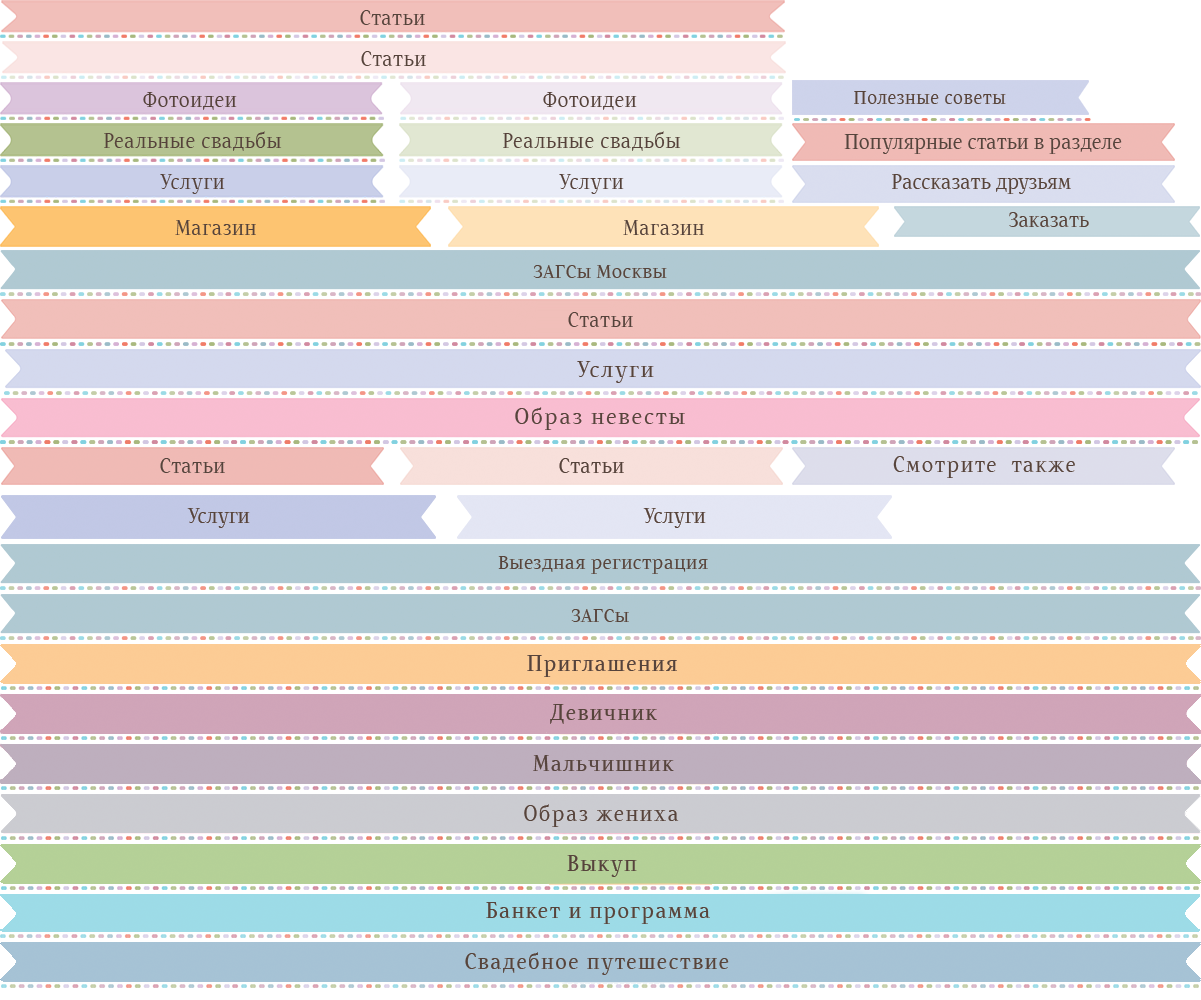
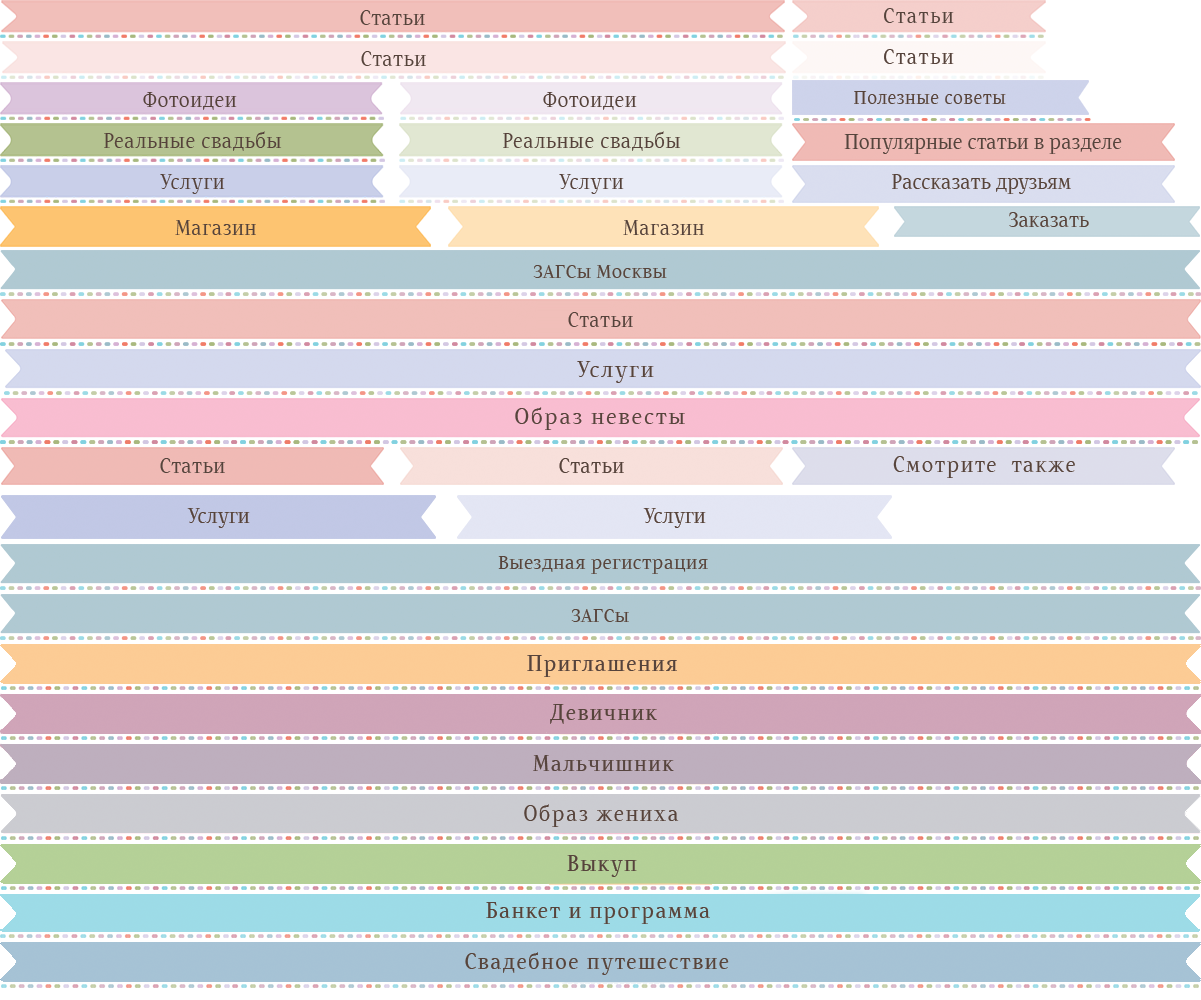
+ guests-service.html page

Changed region(s): [[0.647, 0.0, 0.8626, 0.062]]

diff --git a/guests-service.html b/guests-service.html
@@ -110,38 +110,97 @@
                                     <a href="#"><img src="images/img69.jpg" alt="" width="251" height="186"/></a>
                                     <a class="btn-gift" href="#">Получить подарок!</a>
                                 </div>
-                            </div>
-
-                            <div class="center-column">
-                                <h1>Запуск голубей</h1>
-                                <div class="img">
-                                    <img src="images/img70.jpg" alt="" width="568" height="338"/>
+                                <div class="block-menu">
+                                    <h3 class="title title-articles-mini"><span>Статьи</span></h3>
+                                    <ul>
+                                        <li><a href="#">Платья подружек невесты</a></li>
+                                        <li><a href="#">Как правильно наносить макияж</a></li>
+                                        <li><a href="#">Интересные идеи для фотосессии</a></li>
+                                        <li><a href="#">Платья подружек невесты</a></li>
+                                        <li><a href="#">Как правильно наносить макияж</a></li>
+                                        <li><a href="#">Интересные идеи для фотосессии</a></li>
+                                        <li><a href="#">Платья подружек невесты</a></li>
+                                        <li><a href="#">Как правильно наносить макияж</a></li>
+                                        <li><a href="#">Интересные идеи для фотосессии</a></li>
+                                    </ul>
                                 </div>
-                                <div class="price-block">
-                                    <strong class="caption">Цена</strong>
-                                    <div class="entry">
-                                        <p>Самовывоз <span class="price">2100 руб.</span></p>
-                                        <p>Доставка по Москве <span class="price">2300 руб.</span></p>
-                                        <p><em>*Пара голубей в коробке/клетке</em></p>
+                            </div>
+                            <div class="center-column">
+                                <h1>Чем развлечь и удивить гостей?</h1>
+                                <div class="services-section">
+                                    <div class="service-box">
+                                        <div class="photo">
+                                            <a href="#"><img src="images/img131.jpg" alt="" width="262" height="187"/></a>
+                                        </div>
+                                        <div class="caption">
+                                            <a href="#">Запуск бабочек</a>
+                                            <span class="price">От 2 000 руб.</span>
+                                        </div>
+                                    </div>
+                                    <div class="service-box">
+                                        <div class="photo">
+                                            <a href="#"><img src="images/img132.jpg" alt="" width="262" height="187"/></a>
+                                        </div>
+                                        <div class="caption">
+                                            <a href="#">Запуск био голубей</a>
+                                            <span class="price">От 1 500 руб.</span>
+                                        </div>
+                                    </div>
+                                    <div class="service-box">
+                                        <div class="photo">
+                                            <a href="#"><img src="images/img133.jpg" alt="" width="262" height="187"/></a>
+                                        </div>
+                                        <div class="caption">
+                                            <a href="#">Запуск бабочек</a>
+                                            <span class="price">От 2 000 руб.</span>
+                                        </div>
+                                    </div>
+                                    <div class="service-box">
+                                        <div class="photo">
+                                            <a href="#"><img src="images/img134.jpg" alt="" width="262" height="187"/></a>
+                                        </div>
+                                        <div class="caption">
+                                            <a href="#">Запуск голубей</a>
+                                            <span class="price">От 1 200 руб.</span>
+                                        </div>
+                                    </div>
+                                    <div class="service-box">
+                                        <div class="photo">
+                                            <a href="#"><img src="images/img131.jpg" alt="" width="262" height="187"/></a>
+                                        </div>
+                                        <div class="caption">
+                                            <a href="#">Запуск бабочек</a>
+                                            <span class="price">От 2 000 руб.</span>
+                                        </div>
+                                    </div>
+                                    <div class="service-box">
+                                        <div class="photo">
+                                            <a href="#"><img src="images/img132.jpg" alt="" width="262" height="187"/></a>
+                                        </div>
+                                        <div class="caption">
+                                            <a href="#">Запуск био голубей</a>
+                                            <span class="price">От 1 500 руб.</span>
+                                        </div>
+                                    </div>
+                                    <div class="service-box">
+                                        <div class="photo">
+                                            <a href="#"><img src="images/img133.jpg" alt="" width="262" height="187"/></a>
+                                        </div>
+                                        <div class="caption">
+                                            <a href="#">Запуск бабочек</a>
+                                            <span class="price">От 2 000 руб.</span>
+                                        </div>
+                                    </div>
+                                    <div class="service-box">
+                                        <div class="photo">
+                                            <a href="#"><img src="images/img134.jpg" alt="" width="262" height="187"/></a>
+                                        </div>
+                                        <div class="caption">
+                                            <a href="#">Запуск голубей</a>
+                                            <span class="price">От 1 200 руб.</span>
+                                        </div>
                                     </div>
                                 </div>
-                                <p>Запуск белых голубей - это одна из трогательных свадебных традиций. Символ любви, супружеской верности, благополучия.</p>
-                                <p>В старину гадания на голубях проводились в день Святой Троицы.</p>
-                                <p>К лапке голубя привязывали ленты: синюю и красную. Прошепчите голубям свои желания и выпустите их в небо, какой голубь вылетит из рук молодоженов первым (за девочку- красная ленточка, за мальчика - голубая), тот и будет первенцем в семье. Второй вариант, чей голубь улетел
-                                    первым или взлетел выше, тот и будет главным в семье.</p>
-                                <br/>
-                                <h2 class="content-img-title">
-                                    <img src="images/lenta-poleznie-soveti.png" alt="Полезные советы" width="299" height="41"/>
-                                </h2>
-                                <ul>
-                                    <li>Держать птиц нужно на вытянутой руке, дабы избежать возможности испачкаться птичьим помётом.</li>
-                                    <li>По той же причине голубей не кормят в этот день</li>
-                                    <li>Держать голубков нужно бережно, чтобы не повредить хрупкие крылья и оперение.</li>
-                                    <li>В летнюю жару не оставляйте коробку с птицами в машине, от теплового удара птицы могут погибнуть.</li>
-                                    <li>Не выпускайте голубей сразу, фотографируйтесь с ними. Для получения удачной фотографии
-                                        (с запуском голубей на свадьбе) можно включить фотоаппарат в режим фоторяда, чтобы потом
-                                        выбрать наиболее красивое фото для печати.</li>
-                                </ul>
                             </div>
                         </article>
                         <aside class="aside">
@@ -151,16 +210,27 @@
                                 <li><a href="#">Мальчишник</a></li>
                                 <li><a href="#">Свадебный образ</a></li>
                                 <li><a href="#">Выкуп</a></li>
-                                <li class="active">
+                                <li>
                                     <a href="#">ЗАГС</a>
                                     <ul>
-                                        <li class="active"><a href="#">Запуск голубей</a></li>
+                                        <li><a href="#">Запуск голубей</a></li>
                                         <li><a href="#">Запуск Био голубей</a></li>
                                         <li><a href="#">Дети-ангелочки</a></li>
                                         <li><a href="#">Запуск бабочек</a></li>
                                     </ul>
                                 </li>
-                                <li><a href="#">Выездная регистрация</a></li>
+                                <li class="active">
+                                    <a href="#">Выездная регистрация</a>
+                                    <ul>
+                                        <li><a href="#">Свадебный регистратор</a></li>
+                                        <li><a href="#">Оформление</a></li>
+                                        <li><a href="#">Музыкальное сопровождение</a></li>
+                                        <li><a href="#">Техническое оборудование</a></li>
+                                        <li class="active"><a href="#">Чем развлечь и удивить гостей</a></li>
+                                        <li><a href="#">Фуршет</a></li>
+                                        <li><a href="#">Организация выездной регистрации</a></li>
+                                    </ul>
+                                </li>
                                 <li><a href="#">Банкет и программа</a></li>
                                 <li><a href="#">Прогулка</a></li>
                                 <li><a href="#">Фотосъемка</a></li>
@@ -171,83 +241,6 @@
                             </ul>
                         </aside>
                     </div>
-                    <div class="comments-holder">
-                        <div class="comments">
-                            <img src="images/comments.png" alt="" width="1127" height="270"/>
-                        </div>
-                        <div class="share">
-                            <strong class="title title-share-short two-sides-dots"><span>Рассказать друзьям</span></strong>
-                            <div class="share-content">
-                                <ul>
-                                    <li><img src="images/img-vk-big.png" alt="" width="151" height="44"/></li>
-                                    <li><img src="images/img-fb-big.png" alt="" width="213" height="44"/></li>
-                                    <li><img src="images/img-tw-big.png" alt="" width="192" height="44"/></li>
-                                    <li><img src="images/img-odn-big.png" alt="" width="111" height="42"/></li>
-                                </ul>
-                            </div>
-                        </div>
-                    </div>
-                </div>
-                <div class="see-also">
-                    <h3 class="title title-see-also-short two-sides-dots"><span>Услуги</span></h3>
-                    <ul>
-                        <li>
-                            <div class="photo-box photo-box-large">
-                                <a class="img-link" href="#">&nbsp;</a>
-                                <div class="photo">
-                                    <div class="cropper"><img src="images/img17.jpg" alt="" width="361" height="260"/></div>
-                                </div>
-                                <div class="caption">
-                                    <div class="cell">
-                                        <strong><a href="#">Запуск голубей</a></strong>
-                                        <span class="price">От 1 200 руб.</span>
-                                    </div>
-                                </div>
-                            </div>
-                        </li>
-                        <li>
-                            <div class="photo-box photo-box-large">
-                                <a class="img-link" href="#">&nbsp;</a>
-                                <div class="photo">
-                                    <div class="cropper"><img src="images/img18.jpg" alt="" width="366" height="274"/></div>
-                                </div>
-                                <div class="caption">
-                                    <div class="cell">
-                                        <strong><a href="#">Запуск биоголубей</a></strong>
-                                        <span class="price">От 1 500 руб.</span>
-                                    </div>
-                                </div>
-                            </div>
-                        </li>
-                        <li>
-                            <div class="photo-box photo-box-large">
-                                <a class="img-link" href="#">&nbsp;</a>
-                                <div class="photo">
-                                    <div class="cropper"><img src="images/img19.jpg" alt="" width="379" height="255"/></div>
-                                </div>
-                                <div class="caption">
-                                    <div class="cell">
-                                        <strong><a href="#">Запуск бабочек</a></strong>
-                                        <span class="price">От 2 200 руб.</span>
-                                    </div>
-                                </div>
-                            </div>
-                        </li>
-                        <li>
-                            <div class="photo-box photo-box-large">
-                                <a class="img-link" href="#">&nbsp;</a>
-                                <div class="photo">
-                                    <div class="cropper"><img src="images/img71.jpg" alt="" width="363" height="259"/></div>
-                                </div>
-                                <div class="caption">
-                                    <div class="cell">
-                                        <strong><a href="#">Дети-ангелочки</a></strong>
-                                        <span class="price">От 1 200 руб.</span>
-                                    </div>
-                                </div>
-                            </div>
-                        </li>
-                    </ul>
                 </div>
             </div>
         </main>

diff --git a/css/style.css b/css/style.css
@@ -747,6 +747,17 @@ fieldset {
     background-position: -399px -447px;
 }
 
+.title.title-articles-mini {
+    width: 254px;
+    margin-bottom: 14px;
+}
+
+.title.title-articles-mini span {
+    width: 254px;
+    height: 38px;
+    background-position: -792px 0;
+}
+
 .title.title-services-short2 {
     width: 436px;
     margin-bottom: 20px;
@@ -2394,6 +2405,8 @@ img.smile {
 .aside {
     float: left;
     margin: 0 0 0 -9px;
+    width: 245px;
+    padding: 0 10px 0 0;
 }
 .add-nav {
     font-size: 18px;
@@ -2424,6 +2437,7 @@ img.smile {
     position: relative;
     display: inline-block;
     padding: 0 0 0 18px;
+    color: #736357;
 }
 .add-nav a:hover,
 .add-nav ul li.active a {
@@ -2448,9 +2462,11 @@ img.smile {
 }
 .add-nav ul {
     margin: 0;
-    padding: 9px 0 0 39px;
+    padding: 9px 0 0 32px;
     list-style: none;
     display: none;
+    font-size: 15px;
+    line-height: 20px;
 }
 .add-nav ul li {
     padding: 3px 0;
@@ -2472,6 +2488,7 @@ img.smile {
 .page-content .contact-block {
     float: right;
     width: 251px;
+    margin: 0 0 100px;
 }
 .page-content .contact-block .text-right {
     text-align: right;
@@ -2524,6 +2541,9 @@ img.smile {
 }
 .page-content .contact-block .callback-link:hover {
     text-decoration: none;
+}
+.page-content .gift-box {
+    margin: 0 0 45px;
 }
 .page-content .gift-box img {
     vertical-align: top;
@@ -2602,17 +2622,17 @@ img.smile {
 .price-block em {
     font-size: 15px;
 }
-.page-content ul {
+.center-column ul {
     padding: 0 0 16px 3px;
     list-style: none;
     line-height: 25px;
 }
-.page-content ul li {
+.center-column ul li {
     position: relative;
     text-indent: 34px;
     margin: 0 0 6px;
 }
-.page-content ul li:after {
+.center-column ul li:after {
     content: '';
     position: absolute;
     left: 0;
@@ -2621,7 +2641,44 @@ img.smile {
     width: 6px;
     height: 6px;
 }
-
+.page-content .contact-block .block-menu {
+    margin: 0 -2px;
+}
+.block-menu ul {
+    margin: 0;
+    padding: 0 20px;
+    list-style: none;
+    font-size: 12px;
+    line-height: 14px;
+    text-align: center;
+}
+.block-menu li {
+    position: relative;
+    padding: 10px 0 11px;
+}
+.block-menu li:after {
+    position: absolute;
+    left: 50%;
+    top: 0;
+    margin-left: -12px;
+    content: '';
+    width: 23px;
+    height: 5px;
+    background: url(../images/sprite.png) no-repeat -272px -113px;
+}
+.block-menu li:first-child {
+    padding-top: 0;
+}
+.block-menu li:first-child:after {
+    display: none;
+}
+.block-menu ul a {
+    color: #614d45;
+    text-decoration: none;
+}
+.block-menu ul a:hover {
+    color: #cb83a0;
+}
 /* service section */
 .services-section {
     padding: 0 0 60px;
@@ -2639,7 +2696,7 @@ img.smile {
 }
 .page-content .service-box {
     width: 262px;
-    margin: 0 8px 20px;
+    margin: 0 16px 20px 0;
     display: inline-block;
     vertical-align: top;
     padding: 8px 10px 6px;
